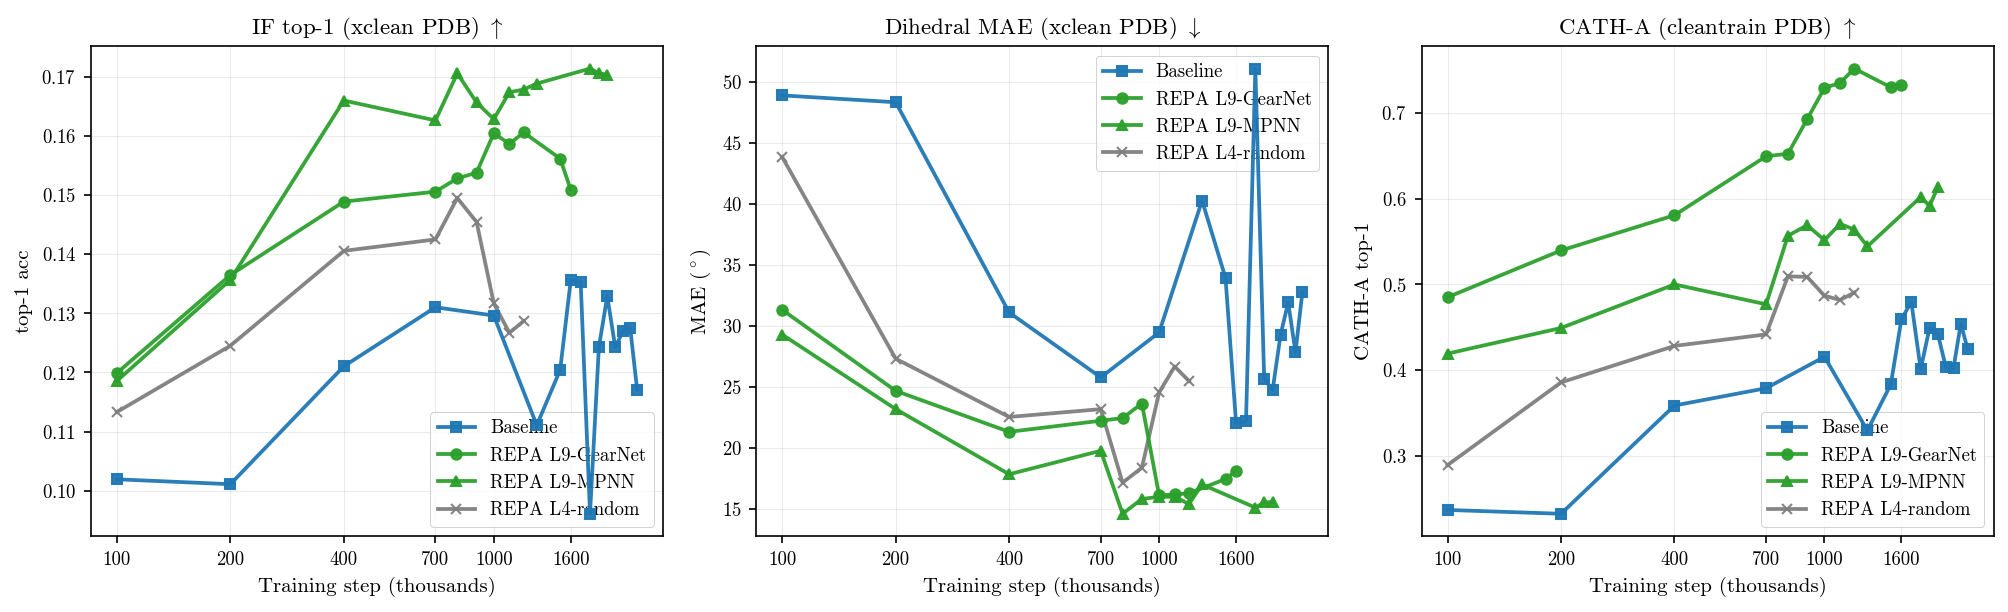
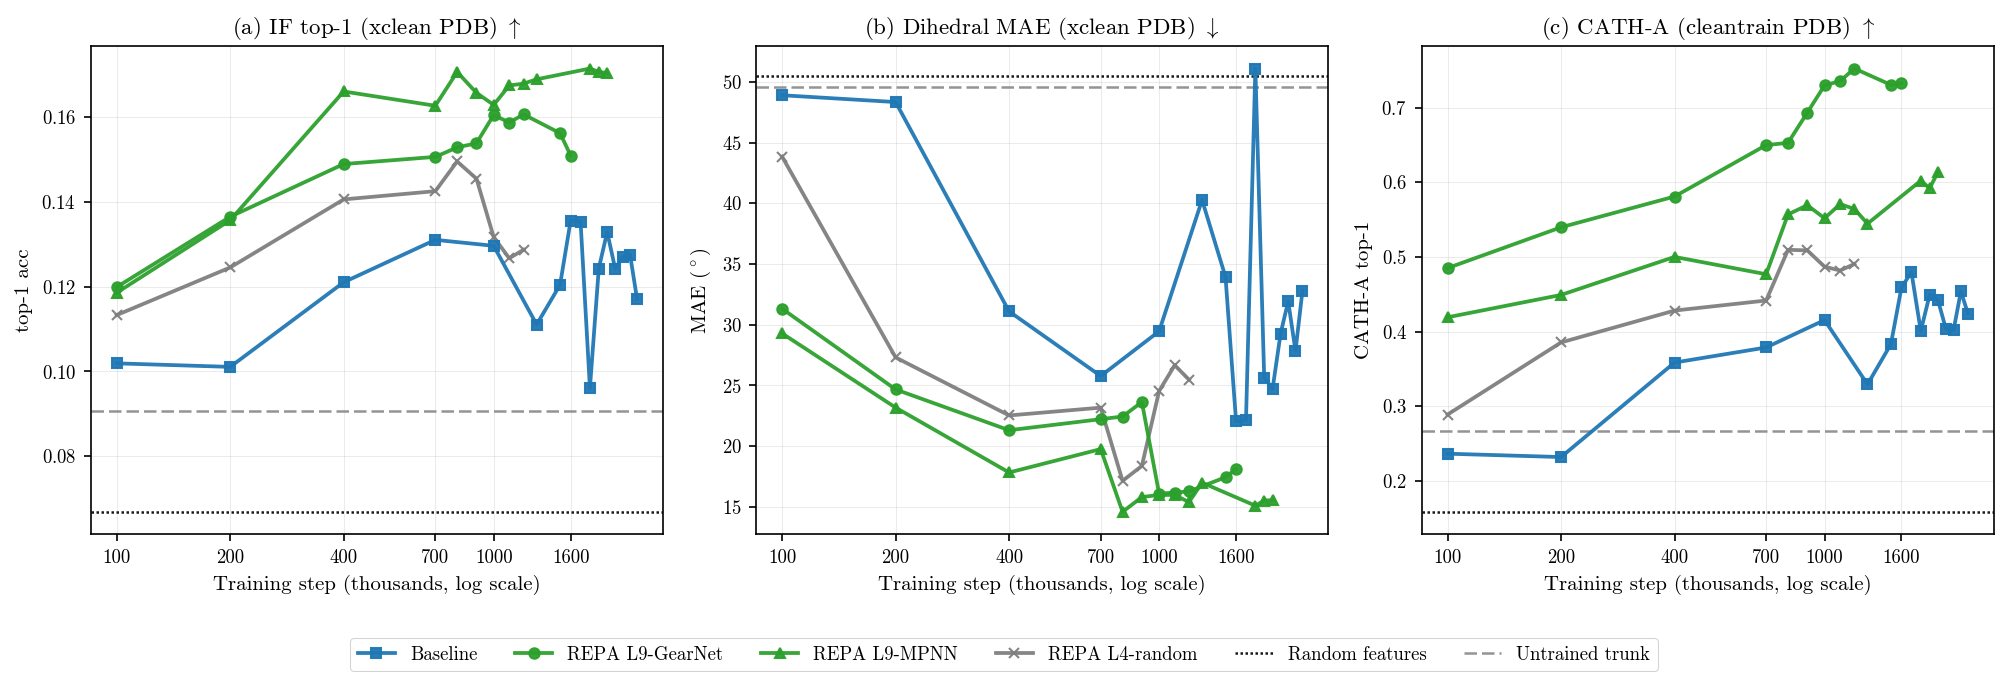
docs(fig): fig02 — naive floor lines, shared legend, panel labels, log-scale axis
- Add random-feature and untrained-trunk reference lines (computed on the same
  clean slices) so absolute probe levels are interpretable
- Single shared legend below the panels; (a)/(b)/(c) panel labels;
  '(thousands, log scale)' x-axis label (matches fig1c convention)

diff --git a/docs/masters-report/figures/scripts/fig2_representation.py b/docs/masters-report/figures/scripts/fig2_representation.py
@@ -24,7 +24,6 @@ from style import (
     classify_family,
     setup_axes,
     plot_trajectory,
-    legend,
     log_step_axis,
     use_report_style,
 )
@@ -68,7 +67,45 @@ def best_layer(csv_path, probe_kind, value_col, level=None, higher_better=True):
     return out
 
 
-def plot_traj_panel(ax, data, families, title, ylabel, higher_better=True):
+# Naive reference baselines, computed on the SAME clean slices as the
+# trajectories, drawn as horizontal floor lines so absolute probe levels are
+# interpretable. random_gauss = no-information floor; untrained_proteina = an
+# untrained trunk (distinct from the L4-random control, whose trunk IS trained).
+REF_RUNS = [
+    ("random_gauss", "Random features", (0, (1, 1)), "#000000"),
+    ("untrained_proteina", "Untrained trunk", (0, (5, 2)), "#888888"),
+]
+
+
+def naive_ref(csv_path, probe_kind, value_col, run, level=None, higher_better=True):
+    best = None
+    with open(csv_path) as f:
+        for row in csv.DictReader(f):
+            if row.get("run") != run or row.get("probe_kind") != probe_kind:
+                continue
+            if level is not None and row.get("cath_level") != level:
+                continue
+            v = row.get(value_col)
+            if not v:
+                continue
+            v = float(v)
+            best = v if best is None else (max if higher_better else min)(best, v)
+    return best
+
+
+def refs_for(csv_path, probe_kind, value_col, level=None, higher_better=True):
+    return [
+        (
+            label,
+            ls,
+            color,
+            naive_ref(csv_path, probe_kind, value_col, run, level, higher_better),
+        )
+        for run, label, ls, color in REF_RUNS
+    ]
+
+
+def plot_traj_panel(ax, data, families, title, ylabel, refs=None, higher_better=True):
     for family in families:
         if family not in data:
             continue
@@ -77,9 +114,19 @@ def plot_traj_panel(ax, data, families, title, ylabel, higher_better=True):
         steps_k = [s / 1000 for s in steps]
         vals = [data[family][s] for s in steps]
         plot_trajectory(ax, steps_k, vals, None, color, marker, label, zorder=z)
+    for label, ls, color, val in refs or []:
+        if val is not None:
+            ax.axhline(
+                val,
+                linestyle=ls,
+                color=color,
+                linewidth=1.2,
+                label=label,
+                zorder=2,
+                alpha=0.9,
+            )
     setup_axes(ax, title=title, ylabel=ylabel)
-    log_step_axis(ax)
-    legend(ax, loc="lower right" if higher_better else "upper right")
+    log_step_axis(ax, label="Training step (thousands, log scale)")
 
 
 FAMS = [
@@ -96,33 +143,49 @@ cath_data = best_layer(
     CLEANTRAIN, "cath", "cath_accuracy", level="A", higher_better=True
 )
 
-# Build figure — 3 panels in a row
-fig, axes = plt.subplots(1, 3, figsize=(13.5, 4.2))
+# Build figure — 3 panels in a row, with a single shared legend below
+fig, axes = plt.subplots(1, 3, figsize=(13.5, 4.6))
 plot_traj_panel(
     axes[0],
     if_data,
     FAMS,
-    "IF top-1 (xclean PDB) $\\uparrow$",
+    "(a) IF top-1 (xclean PDB) $\\uparrow$",
     "top-1 acc",
+    refs=refs_for(XCLEAN, "inverse_folding", "if_top1_acc", higher_better=True),
     higher_better=True,
 )
 plot_traj_panel(
     axes[1],
     dih_data,
     FAMS,
-    "Dihedral MAE (xclean PDB) $\\downarrow$",
+    "(b) Dihedral MAE (xclean PDB) $\\downarrow$",
     "MAE ($^\\circ$)",
+    refs=refs_for(XCLEAN, "dihedral", "dih_mae_total_deg", higher_better=False),
     higher_better=False,
 )
 plot_traj_panel(
     axes[2],
     cath_data,
     FAMS,
-    "CATH-A (cleantrain PDB) $\\uparrow$",
+    "(c) CATH-A (cleantrain PDB) $\\uparrow$",
     "CATH-A top-1",
+    refs=refs_for(CLEANTRAIN, "cath", "cath_accuracy", level="A", higher_better=True),
     higher_better=True,
 )
 
-plt.tight_layout()
+# Single shared legend across all panels (common-legend convention).
+handles, labels = axes[0].get_legend_handles_labels()
+fig.tight_layout(rect=[0, 0.09, 1, 1])
+leg = fig.legend(
+    handles,
+    labels,
+    loc="lower center",
+    ncol=len(labels),
+    fontsize=9,
+    frameon=True,
+    framealpha=0.85,
+    bbox_to_anchor=(0.5, 0.0),
+)
+leg.get_frame().set_linewidth(0.5)
 plt.savefig(OUT, dpi=150, bbox_inches="tight")
 print(f"Saved {OUT}")

diff --git a/docs/masters-report/figures/fig02_representation.tex b/docs/masters-report/figures/fig02_representation.tex
@@ -2,6 +2,6 @@
 \begin{figure}[tbp]
 \centering
 \includegraphics[width=\textwidth]{figures/fig02_representation.png}
-\caption{\textbf{Flow-matching alone never makes the student's representations more structural; REPA installs it as a persistent, encoder-axis-specific gap.} The baseline stays flat for 1.8M steps while every REPA variant opens a gap that never closes. The rank-order is axis-specific --- GearNet leads the fold probe (CATH), MPNN the per-residue probes (inverse folding, dihedral) --- and the random control gains least, so the effect draws on the encoder's learned structure, not the auxiliary loss alone. ($n{\le}256$, PDB-trained; best-layer linear probes --- per-residue probes on a blinded cross-database slice, CATH on a probe-clean split, \S\ref{ch:evaluation} and Appendix~\ref{app:leakage}.)}
+\caption{\textbf{REPA offers a mechanistic effect that lifts the trunk's representation quality asymptotically.} REPA variants open a quality gap over baseline that never closes. The random control gains least, evidence that a trained encoder contributes a genuine mechanistic effect rather than mere regularisation from the auxiliary loss. ($n{\le}256$, PDB-trained; best-layer linear probes; per-residue probes on a blinded cross-database slice, CATH on a probe-clean split. See Appendix~\ref{app:leakage} for further details and ablations.)}
 \label{fig:proteina-rep}
 \end{figure}
